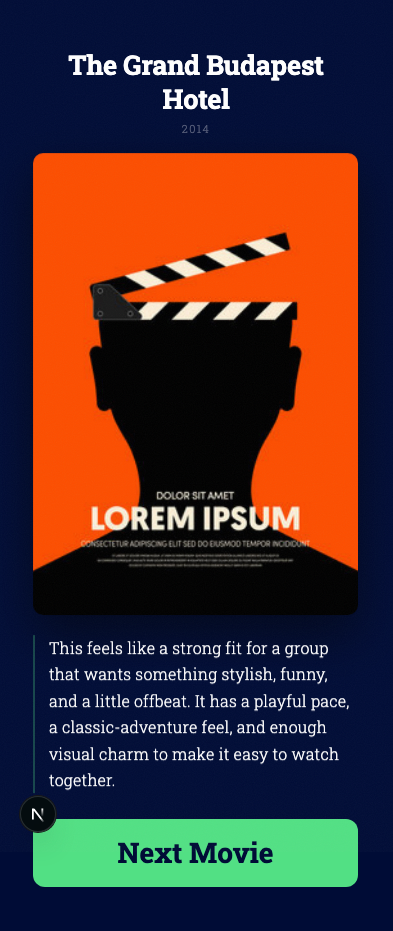
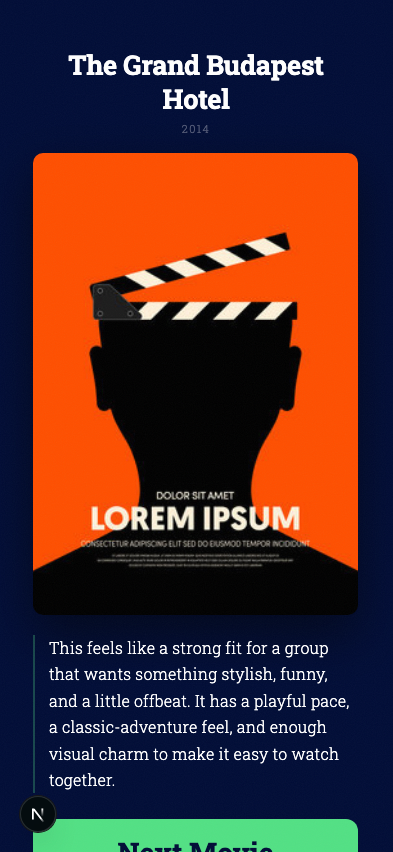
Normalize README preview images

diff --git a/README.md b/README.md
@@ -12,9 +12,18 @@ poster lookup, schema validation, and Redis-backed rate limiting.
 
 ## Preview
 
-| Start | Preferences | Recommendation |
-|---|---|---|
-| ![PopChoice start screen](docs/images/pop-choice-start.png) | ![PopChoice preferences screen](docs/images/pop-choice-preferences.png) | ![PopChoice recommendation screen](docs/images/pop-choice-results.png) |
+<table>
+  <tr>
+    <th>Start</th>
+    <th>Preferences</th>
+    <th>Recommendation</th>
+  </tr>
+  <tr>
+    <td><img src="docs/images/pop-choice-start.png" alt="PopChoice start screen" width="220" /></td>
+    <td><img src="docs/images/pop-choice-preferences.png" alt="PopChoice preferences screen" width="220" /></td>
+    <td><img src="docs/images/pop-choice-results.png" alt="PopChoice recommendation screen" width="220" /></td>
+  </tr>
+</table>
 
 The recommendation preview uses the app's result layout with the fallback poster
 asset so the README can show the UI without calling OpenAI, Supabase, or TMDB.